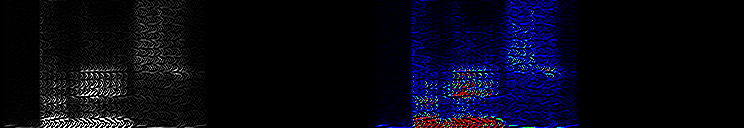
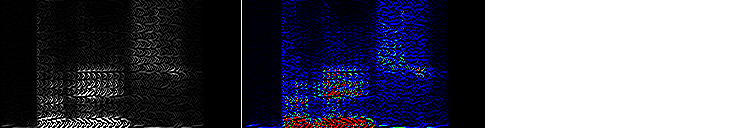
Algunos cambios que no habia hecho commt

diff --git a/doc/index.html b/doc/index.html
@@ -51,7 +51,15 @@
 
 <h3>Representación de los datos de Entrada</h3>
 	<p>El espectrograma no se presenta completo a la red neuronal, sino que se divide en bandas de frecuencia, y sobre cada banda se calcula una métrica.</p>
-	<p>Los experimentos se realizaron con 16 bandas de frecuencias</p>
+	<figure>
+		<img src="img/spectrogram_freq_bands.png">
+		<figcaption>
+			Ejemplo de espectrograma dividido en 8 bandas de frecuencias.
+		</figcaption>
+	</figure>
+
+
+	<p>Los experimentos se realizaron con 16 bandas de frecuencias. Se compararon las 3 métricas detalladas a continuación para represaentar cada banda de frecuencia:</p>
 	<dl>
 		<dt>Media:</dt>
 		<dd>Media de los valores individuales de los píxeles. Con está métrica se obtiene hasta un 19.824 % de validación.</dd>
@@ -63,17 +71,24 @@
 		<dd>Se calcula como la suma de los valores absolutos de las diferencias entre cada píxel y su inmediatamente posterior. Para normalizar el valor obtenido, se divide entre el ancho del espectrograma y se aplica la función tangente hiperbólico. De esta forma se obtiene un valor entre 0 y 1. Con esta métrica se obtiene hasta un 22.870 % de validación.</dd>
 	</dl>
 
-	<ul>
-		<li>flat</li>
-		<li>cut</li>
-	</ul>
+	<p>Utilizando en conjunto Aspereza y Media se obtiene una validación de 25.641 %.</p>
+
+	<h4>Bisección en el tiempo</h4>
+	<p>Para mejorar el nivel de detalle, se ha hecho el experimento de biseccionar cada banda de frecuencia en el tiempo, para obtener más detalle. Esto duplica la cantidad de neuronas de entrada.</p>
+	<p>Ya que en la salida de la red no se toma en cuenta el orden de los fonemas, las dos mitades se reordenan de ser necesario para que la que tenga más peso en las bajas frecuencias aparezca primero.<p>
+	<figure>
+		<img src="img/spectrogram_freq_bands_2.png">
+		<figcaption>
+			Ejemplo de espectrograma dividido en 8 bandas de frecuencias, y biseccionado en el tiempo.
+		</figcaption>
+	</figure>
+
+	<p>Los resultados del experimento muestran que aplicar esta bisección no mejora el porcentaje de validación, de hecho disminuye entre un 2% y 3%.</p>
 
 <h3>Representación de los datos de Salida</h3>
-	<ul>
-		<li>Excluídos</li>
-		<li>Sinónimos</li>
-		<li>Vector de pesos</li>
-	</ul>
+
+	<p>En la capa de salida de la red hay una neurona para cada fonema que se busca reconocer. Un valor cercano a 0 indica la ausencia del fonema, y un valor cercano a 1 su prescencia.</p>
+
 
 
 <h2>Entrenamiento</h2>
@@ -180,15 +195,15 @@
 	<img src="img/training02.png" alt="">
 
 <h2>Validacion</h2>
-
-	<p>Para hacer validación se separa el 10% de las muestras generadas.</p>
+	<p>Para hacer validación se separa el 10% de las muestras generadas. Estas muestras no son utilizadas en el conjunto de entrenamiento.</p>
 
 <h2>Visualización de resultados</h2>
-	<ul>
-		<li>Interfaz web</li>
-	</ul>
+	<p>Se realizaron pruebas sobre frases completas, generadas con el mismo software que las muestras de entrenamiento.</p>
+	<p>Para visualizar los resultados, se presenta una interfaz web en la que se presenta el espectrograma, y los fonemas detectados en cada segmento del mismo.</p>
+	<a href="../web/index.html"><img src="img/web_interface.png"></a>
+	<a href="../web/index.html">Interfaz web</a>
 
-<h2>Conclusión</h2>
-	<p></p>
+<h2>Próximos pasos</h2>
+	<p>Como siguiente paso se estudiará cómo se comporta con voces humanas reales, y con diferentes configuraciones de tono, amplitud y velocidad para las voces generadas por el mismo software, y por otros software de síntesis de voz.</p>
 
 </body>

diff --git a/doc/style.css b/doc/style.css
@@ -7,3 +7,16 @@ body {
 	margin-left: auto;
 	margin-right: auto;
 }
+
+dt {
+	font-weight: bold;
+}
+
+h2 {
+	margin-top: 60px;
+}
+
+h3 {
+	margin-top: 40px;
+}
+	

diff --git a/src/common.c b/src/common.c
@@ -77,18 +77,18 @@ fann_type *flat_data_color (double *data, long data_length, unsigned out_length)
 }
 
 fann_type *flat_data_grayscale (double *data, long data_length, unsigned out_length) {
-	unsigned num_freqs = out_length;
+	unsigned num_freqs = out_length/2;
 	fann_type *flatted_data = malloc (out_length * sizeof (fann_type));
 	fann_type *sharp = get_sharp_histogram (data, data_length, num_freqs);
-	//fann_type *means = get_means_histogram (data, data_length, num_freqs);
+	fann_type *means = get_means_histogram (data, data_length, num_freqs);
 	//fann_type *max = get_max_histogram (data, data_length, num_freqs);
 
 	memcpy (flatted_data, sharp, num_freqs * sizeof (fann_type));
-	//memcpy (flatted_data, means, num_freqs * sizeof (fann_type));
+	memcpy (flatted_data + num_freqs, means, num_freqs * sizeof (fann_type));
 	//memcpy (flatted_data, max, num_freqs * sizeof (fann_type));
 
 	free (sharp);
-	//free (means);
+	free (means);
 	//free (max);
 	return flatted_data;
 }

diff --git a/src/test.c b/src/test.c
@@ -4,9 +4,9 @@
 #include <string.h>
 #include "common.h"
 
-#define TESTING_THRESHOLD 0.9
-#define SLICE_WIDTH (60*NUM_CHANNELS)
-#define SLICE_STEP (60*NUM_CHANNELS)
+#define TESTING_THRESHOLD 0.95
+#define SLICE_WIDTH (40*NUM_CHANNELS)
+#define SLICE_STEP (40*NUM_CHANNELS)
 #define NUM_EXAMPLES 5
 #define BIFLAT_DATA_OFFSET 0.2
 

diff --git a/src/common.h b/src/common.h
@@ -4,7 +4,7 @@
 #define SPECTROGRAM_WINDOW 128
 #define SPECTROGRAM_OFFSET_START 0
 #define SPECTROGRAM_OFFSET_END (32*4*SPECTROGRAM_WINDOW*NUM_CHANNELS)
-#define NEURONS_INPUT_LAYER (16*NUM_CHANNELS)
+#define NEURONS_INPUT_LAYER (16*2*NUM_CHANNELS)
 #define USE_BIFLAT 0
 #define DEBUG_MODE 0
 
